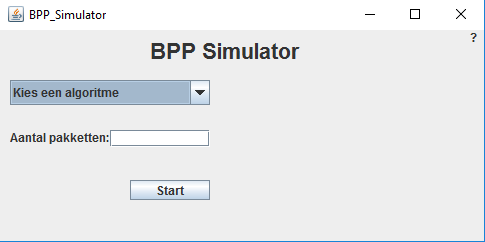
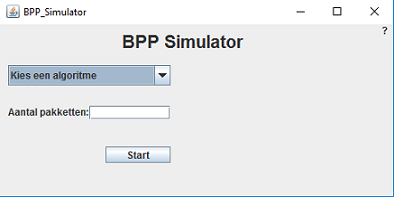
helppanel changes

diff --git a/kbs/src/BPP/helpPanel.java b/kbs/src/BPP/helpPanel.java
@@ -2,18 +2,26 @@ package BPP;
 
 import java.awt.*;
 import javax.swing.*;
+import javax.swing.border.*;
 
 public class helpPanel extends JFrame{
 	public helpPanel(){
 		setTitle("Help");
 		setSize(500, 800);
+		setLayout(new FlowLayout());
 		
 		ImageIcon image = new ImageIcon(getClass().getResource("helpPanelimg/hoofdscherm.png"));
 		
 		JLabel img = new JLabel();
 		img.setIcon(image);
-		img.setBounds(10, 10, 480, 240);
+		img.setBounds(10, 10, 350, 240);
+		img.setBorder(new EmptyBorder(0, 10, 0, 10));
 		add(img);
+		String _text = "Lorem ipsum dolor sit amet, consectetur adipiscing elit. Praesent cursus lectus lorem, in efficitur erat eleifend vitae. Aenean sit amet facilisis nisi, a pulvinar diam. Duis velit risus, maximus et nulla vel, varius suscipit massa. Phasellus in fringilla velit. Phasellus maximus fermentum quam vel tristique. Morbi aliquam enim ut interdum consequat. Praesent nulla velit, imperdiet sagittis mauris in, tempus vehicula augue. Proin congue libero ut interdum semper. Donec sagittis ex volutpat eros tincidunt, a semper erat imperdiet. Praesent tincidunt vulputate ante, sagittis tincidunt odio lobortis at. Nunc eu ante quis sapien blandit facilisis. Cum sociis natoque penatibus et magnis dis parturient montes, nascetur ridiculus mus. Lorem ipsum dolor sit amet, consectetur adipiscing elit. In nunc quam, ullamcorper vitae mauris sit amet, ullamcorper venenatis ligula. Nulla scelerisque risus sit amet lacus vulputate, quis euismod mauris eleifend. In eleifend blandit elementum."
+				+ "                                                                 Pellentesque convallis varius arcu, nec maximus dui auctor vel. Vestibulum ante ipsum primis in faucibus orci luctus et ultrices posuere cubilia Curae; Vivamus consequat ac velit a vulputate. Sed egestas nulla dolor, vel dignissim massa feugiat sit amet. Aliquam varius justo sapien, sed placerat elit laoreet et. Aenean vel ante et elit accumsan porta eu mattis tellus. Donec in purus sagittis, tristique orci in, euismod urna. Vivamus facilisis porttitor nibh, dignissim ullamcorper quam.";
+		JLabel text =  new JLabel(String.format("<html><div style=\"width:%dpx;\">%s</div><html>", 360, _text));
+		text.setBounds(10, 250, 480, 540);
+		add(text);
 		
 		setVisible(true);
 	}

diff --git a/kbs/src/BPP/hoofdscherm.java b/kbs/src/BPP/hoofdscherm.java
@@ -3,14 +3,16 @@ package BPP;
 import javax.swing.*;
 import java.awt.*;
 import java.awt.event.*;
-import java.util.ArrayList;
+import java.util.*;
 
 public class hoofdscherm extends JFrame{
 	private Algoritme gekozenAlgoritme;																																				//
+	public boolean helpOpened = false;
 	public hoofdscherm(String titel){
 		setTitle(titel);																																							//zet titel van scherm
 		setSize(500,250);																																							//zet grootte
 		setLayout(null);																																							//geen layout manager
+		setResizable(false);
 		setDefaultCloseOperation(JFrame.EXIT_ON_CLOSE);
 		
 		JLabel help = new JLabel("?");
@@ -21,6 +23,7 @@ public class hoofdscherm extends JFrame{
 			@Override
 			public void mouseClicked(MouseEvent arg0) {
 				helpPanel help1 = new helpPanel();
+				helpOpened = true;
 			}
 
 			@Override
